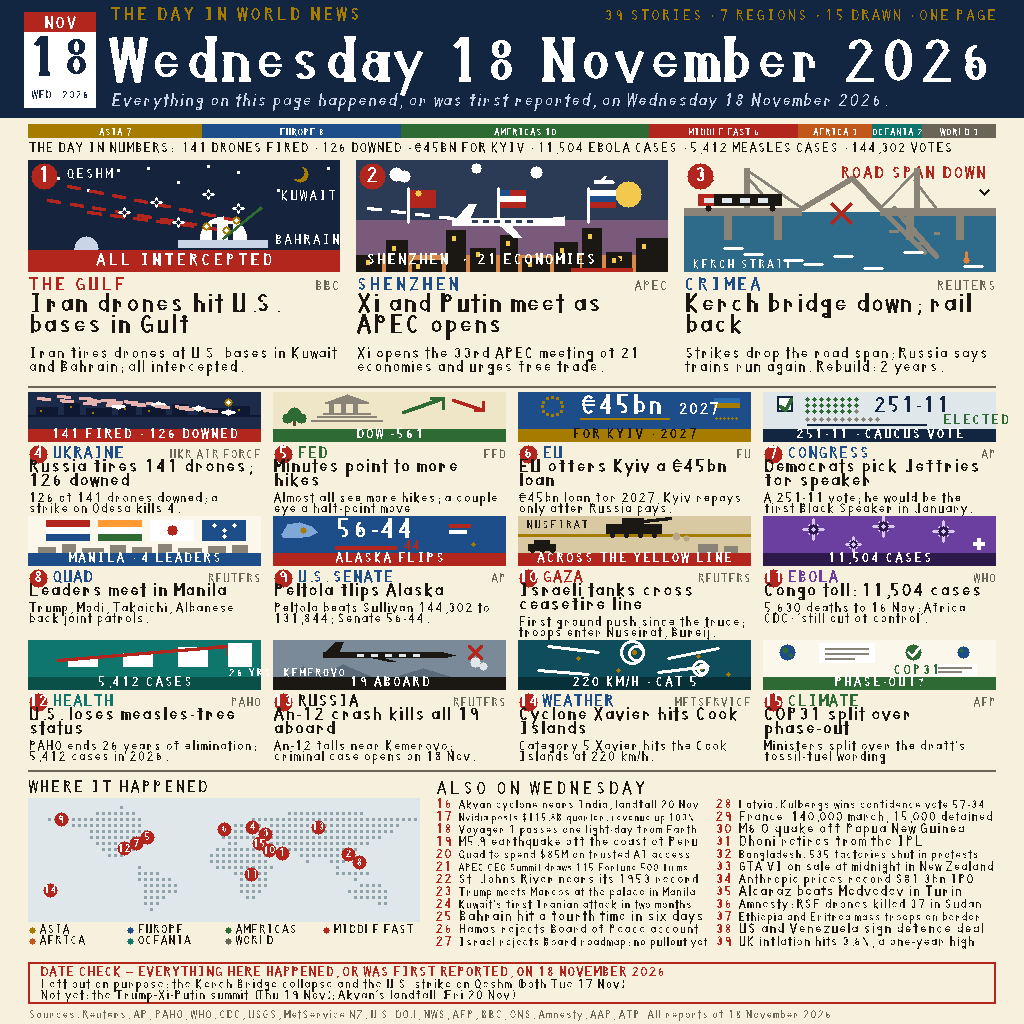
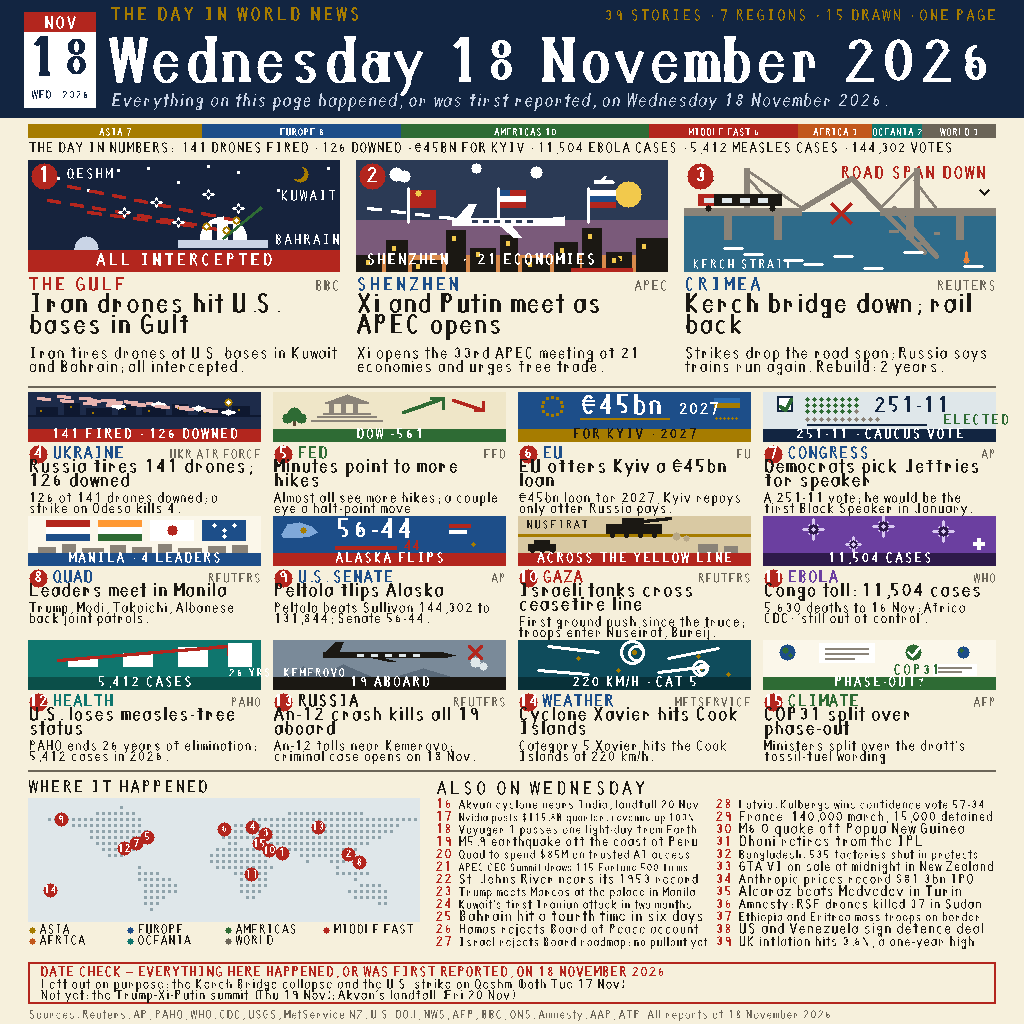
Round 7: font optical corrections — overshoot, stroke modulation, smoother curves, better y/g descenders

diff --git a/main.ts b/main.ts
@@ -193,7 +193,7 @@ const rect = (x0: number, y0: number, x1: number, y1: number): Ctr => [
   [x1, y1],
   [x0, y1],
 ];
-const ell = (cx: number, cy: number, rx: number, ry: number, n = 24): Ctr => {
+const ell = (cx: number, cy: number, rx: number, ry: number, n = 36): Ctr => {
   const p: Ctr = [];
   for (let i = 0; i < n; i++) {
     const a = (i / n) * Math.PI * 2;
@@ -202,7 +202,7 @@ const ell = (cx: number, cy: number, rx: number, ry: number, n = 24): Ctr => {
   return p;
 };
 // Thick arc band, angles in degrees (0 = east, 90 = north), a1 > a0.
-const arcBand = (cx: number, cy: number, rx: number, ry: number, a0: number, a1: number, th: number, n = 16): Ctr => {
+const arcBand = (cx: number, cy: number, rx: number, ry: number, a0: number, a1: number, th: number, n = 24): Ctr => {
   const p: Ctr = [];
   for (let i = 0; i <= n; i++) {
     const a = ((a0 + ((a1 - a0) * i) / n) * Math.PI) / 180;
@@ -238,7 +238,7 @@ const stem = (x: number, y0: number, y1: number, w: number, top = true, bot = tr
   return [[rect(x, y0, x + w, y1)]];
 };
 // Quadratic bezier sampler (for serif brackets).
-const quad = (p0: [number, number], p1: [number, number], p2: [number, number], n = 4): Ctr => {
+const quad = (p0: [number, number], p1: [number, number], p2: [number, number], n = 8): Ctr => {
   const pts: Ctr = [];
   for (let i = 0; i <= n; i++) {
     const t = i / n;
@@ -284,7 +284,7 @@ const bowlC = (cx: number, cy: number, rx: number, ry: number, thSide: number, t
 ];
 // Contrast arc band (serif face): thickness varies from thSide at the
 // horizontal extremes to thTop at the vertical extremes (vertical stress).
-const arcC = (cx: number, cy: number, rx: number, ry: number, a0: number, a1: number, thSide: number, thTop: number, n = 16): Ctr => {
+const arcC = (cx: number, cy: number, rx: number, ry: number, a0: number, a1: number, thSide: number, thTop: number, n = 24): Ctr => {
   const p: Ctr = [];
   for (let i = 0; i <= n; i++) {
     const a = ((a0 + ((a1 - a0) * i) / n) * Math.PI) / 180;
@@ -311,6 +311,28 @@ const diagT = (x0: number, y0: number, x1: number, y1: number, w0: number, w1: n
     [x0 - nx * (w0 / 2), y0 - ny * (w0 / 2)],
   ];
 };
+// Curved tapered stroke (r7): a closed outline along a quadratic bezier
+// centerline, width w0 at the start tapering to w1 at the end. Used for
+// the 'y' descender tail, which a straight diagonal makes look stiff.
+const curveStroke = (p0: [number, number], p1: [number, number], p2: [number, number], w0: number, w1: number, n = 10): Ctr => {
+  const left: Ctr = [];
+  const right: Ctr = [];
+  for (let i = 0; i <= n; i++) {
+    const t = i / n;
+    const u = 1 - t;
+    const x = u * u * p0[0] + 2 * u * t * p1[0] + t * t * p2[0];
+    const y = u * u * p0[1] + 2 * u * t * p1[1] + t * t * p2[1];
+    const dx = 2 * u * (p1[0] - p0[0]) + 2 * t * (p2[0] - p1[0]);
+    const dy = 2 * u * (p1[1] - p0[1]) + 2 * t * (p2[1] - p1[1]);
+    const len = Math.hypot(dx, dy) || 1;
+    const nx = -dy / len;
+    const ny = dx / len;
+    const w = (w0 + (w1 - w0) * t) / 2;
+    left.push([x + nx * w, y + ny * w]);
+    right.push([x - nx * w, y - ny * w]);
+  }
+  return [...left, ...right.reverse()];
+};
 const FONT: Record<string, OGlyph> = {
   "0": [60, [bowl(28, 35, 20, 32, 7)]],
   "1": [60, [...stem(26, 0, 70, 11), [diag(18, 56, 30, 70, 7)]]],
@@ -323,12 +345,12 @@ const FONT: Record<string, OGlyph> = {
   "8": [60, [bowl(28, 52, 14, 14, 7), bowl(28, 20, 15, 16, 7)]],
   "9": [60, [bowl(28, 48, 15, 18, 7), ...stem(38, 0, 50, 9, false, false)]],
   A: [60, [[diag(6, 0, 28, 70, 9)], [diag(28, 70, 50, 0, 9)], [rect(14, 23, 42, 30)]]],
-  B: [60, [...stem(8, 0, 70, 11), bowl(29, 53, 14, 14, 7), bowl(29, 19, 15, 15, 7)]],
-  C: [60, [[arcBand(28, 35, 20, 33, 45, 315, 7)]]],
-  D: [60, [...stem(8, 0, 70, 11), [ell(30, 35, 20, 33), ell(30, 35, 14, 27)]]],
+  B: [60, [...stem(8, 0, 70, 11), bowlC(29, 54, 15, 17.5, 8, 6), bowlC(29, 18, 15, 19.5, 8, 6)]],
+  C: [60, [[arcC(28, 35, 21, 36.5, 45, 315, 8, 6)]]],
+  D: [60, [...stem(8, 0, 70, 11), [ell(30, 35, 21, 36.5), ell(30, 35, 13, 30.5)]]],
   E: [60, [...stem(8, 0, 70, 11), [rect(8, 63, 48, 70)], [rect(8, 31, 38, 38)], [rect(8, 0, 48, 7)]]],
   F: [60, [...stem(8, 0, 70, 11), [rect(8, 63, 48, 70)], [rect(8, 31, 38, 38)]]],
-  G: [60, [[arcBand(28, 35, 20, 33, 45, 315, 7)], [rect(28, 27, 48, 34)], ...stem(43, 4, 30, 7, false, false)]],
+  G: [60, [[arcC(28, 35, 21, 36.5, 45, 315, 8, 6)], [rect(28, 27, 48, 34)], ...stem(43, 4, 30, 7, false, false)]],
   H: [60, [...stem(8, 0, 70, 11), ...stem(39, 0, 70, 11), [rect(8, 31, 49, 38)]]],
   I: [60, [[rect(24, 0, 35, 70)], [rect(14, 63, 38, 70)], [rect(14, 0, 38, 7)]]],
   J: [60, [...stem(34, 0, 70, 11, true, false), [arcBand(30, 12, 16, 12, 180, 270, 7)]]],
@@ -336,43 +358,43 @@ const FONT: Record<string, OGlyph> = {
   L: [60, [...stem(8, 0, 70, 11), [rect(8, 0, 48, 7)]]],
   M: [60, [...stem(6, 0, 70, 11), [diag(6, 70, 28, 28, 8)], [diag(28, 28, 50, 70, 8)], ...stem(47, 0, 70, 11)]],
   N: [60, [...stem(8, 0, 70, 11), [diag(8, 70, 48, 0, 8)], ...stem(39, 0, 70, 11)]],
-  O: [60, [bowl(28, 35, 21, 33, 7)]],
-  P: [60, [...stem(8, 0, 70, 11), bowl(29, 53, 14, 14, 7)]],
-  Q: [60, [bowl(28, 35, 21, 33, 7), [diag(38, 14, 52, -4, 6)]]],
-  R: [60, [...stem(8, 0, 70, 11), bowl(29, 53, 14, 14, 7), [diag(28, 36, 48, 0, 7)]]],
-  S: [60, [[arcBand(28, 52, 16, 15, 25, 270, 7)], [arcBand(28, 20, 16, 15, 200, 450, 7)]]],
+  O: [60, [bowlC(28, 35, 22, 36.5, 8, 6)]],
+  P: [60, [...stem(8, 0, 70, 11), bowlC(29, 54, 15, 17.5, 8, 6)]],
+  Q: [60, [bowlC(28, 35, 22, 36.5, 8, 6), [diag(38, 14, 52, -4, 6)]]],
+  R: [60, [...stem(8, 0, 70, 11), bowlC(29, 54, 15, 17.5, 8, 6), [diag(28, 36, 48, 0, 7)]]],
+  S: [60, [[arcC(28, 53, 17, 18.5, 25, 270, 8, 6)], [arcC(28, 18, 17, 19.5, 200, 450, 8, 6)]]],
   T: [60, [[rect(6, 63, 50, 70)], ...stem(24, 0, 70, 11)]],
-  U: [60, [...stem(8, 0, 70, 11), ...stem(39, 0, 70, 11), [arcBand(28, 12, 15, 12, 180, 360, 7)]]],
+  U: [60, [...stem(8, 0, 70, 11), ...stem(39, 0, 70, 11), [arcC(28, 12, 15, 13.5, 180, 360, 8, 6)]]],
   V: [60, [[diag(8, 70, 28, 0, 9)], [diag(28, 0, 48, 70, 9)]]],
   W: [60, [[diag(4, 70, 14, 0, 7)], [diag(14, 0, 28, 70, 7)], [diag(28, 70, 42, 0, 7)], [diag(42, 0, 52, 70, 7)]]],
   X: [60, [[diag(10, 70, 46, 0, 8)], [diag(46, 70, 10, 0, 8)]]],
   Y: [60, [[diag(8, 70, 28, 36, 9)], [diag(48, 70, 28, 36, 9)], ...stem(24, 0, 38, 11)]],
   Z: [60, [[rect(8, 63, 48, 70)], [diag(48, 70, 8, 0, 6)], [rect(8, 0, 48, 7)]]],
-  a: [54, [bowl(26, 27, 17, 20, 6), ...stem(37, 8, 48, 10)]],
-  b: [54, [...stem(10, 0, 72, 10), bowl(27, 27, 17, 20, 6)]],
-  c: [54, [[arcBand(27, 27, 17, 21, 50, 310, 6)]]],
-  d: [54, [bowl(27, 27, 17, 20, 6), ...stem(37, 0, 72, 10)]],
-  e: [54, [[arcBand(27, 28, 17, 20, 25, 335, 6)], [rect(10, 24, 44, 28)]]],
+  a: [54, [bowlC(26, 24, 19, 25.5, 7, 5), ...stem(37, 8, 48, 10)]],
+  b: [54, [...stem(10, 0, 72, 10), bowlC(27, 24, 19, 25.5, 7, 5)]],
+  c: [54, [[arcC(27, 24, 19, 25.5, 50, 310, 7, 5)]]],
+  d: [54, [bowlC(27, 24, 19, 25.5, 7, 5), ...stem(37, 0, 72, 10)]],
+  e: [54, [[arcC(27, 24, 19, 25.5, 25, 335, 7, 5)], [rect(10, 24, 44, 28)]]],
   f: [48, [...stem(20, 0, 66, 10, false, true), [arcBand(24, 58, 9, 9, 0, 180, 7)], [rect(8, 43, 38, 50)]]],
-  g: [54, [bowl(26, 34, 15, 14, 7), bowl(26, -10, 13, 9, 7), ...stem(34, -19, 48, 10, true, false)]],
-  h: [54, [...stem(10, 0, 72, 10), [arcBand(23, 34, 14, 12, 0, 180, 7)], ...stem(36, 0, 34, 10, false, true)]],
+  g: [54, [bowlC(26, 34.5, 16, 15, 7, 5), bowlC(26, -9, 13, 12, 7, 5), ...stem(34, -21, 48, 10, true, false)]],
+  h: [54, [...stem(10, 0, 72, 10), [arcC(23, 34, 15, 15.5, 0, 180, 7, 5)], ...stem(36, 0, 34, 10, false, true)]],
   i: [28, [...stem(10, 0, 48, 10, false, true), [rect(10, 60, 18, 68)]]],
   j: [30, [...stem(11, -20, 48, 10, false, false), [arcBand(15, -10, 9, 9, 180, 270, 6)], [rect(11, 60, 19, 68)]]],
   k: [54, [...stem(10, 0, 72, 10), [diag(18, 26, 42, 48, 7)], [diag(22, 20, 42, 0, 7)]]],
   l: [28, [...stem(10, 0, 72, 10)]],
-  m: [58, [...stem(6, 0, 48, 10), [arcBand(20, 34, 13, 12, 0, 180, 7)], ...stem(26, 0, 34, 10, false, true), [arcBand(40, 34, 13, 12, 0, 180, 7)], ...stem(46, 0, 34, 10, false, true)]],
-  n: [54, [...stem(10, 0, 48, 10), [arcBand(26, 34, 17, 12, 0, 180, 7)], ...stem(36, 0, 34, 10, false, true)]],
-  o: [54, [bowl(27, 27, 17, 21, 6)]],
-  p: [54, [...stem(10, -24, 48, 10, false, false), bowl(27, 27, 17, 20, 6)]],
-  q: [54, [bowl(27, 27, 17, 20, 6), ...stem(37, -24, 48, 10, false, false)]],
+  m: [58, [...stem(6, 0, 48, 10), [arcC(20, 34, 14, 15, 0, 180, 7, 5)], ...stem(26, 0, 34, 10, false, true), [arcC(40, 34, 14, 15, 0, 180, 7, 5)], ...stem(46, 0, 34, 10, false, true)]],
+  n: [54, [...stem(10, 0, 48, 10), [arcC(26, 34, 18, 15.5, 0, 180, 7, 5)], ...stem(36, 0, 34, 10, false, true)]],
+  o: [54, [bowlC(27, 24, 19, 25.5, 7, 5)]],
+  p: [54, [...stem(10, -24, 48, 10, false, false), bowlC(27, 24, 19, 25.5, 7, 5)]],
+  q: [54, [bowlC(27, 24, 19, 25.5, 7, 5), ...stem(37, -24, 48, 10, false, false)]],
   r: [54, [...stem(10, 0, 48, 10), [arcBand(24, 28, 13, 15, -30, 100, 7)]]],
-  s: [54, [[arcBand(27, 38, 14, 11, 25, 270, 7)], [arcBand(27, 16, 14, 11, 200, 450, 7)]]],
+  s: [54, [[arcC(27, 38, 15, 11.5, 25, 270, 7, 5)], [arcC(27, 12, 15, 13.5, 200, 450, 7, 5)]]],
   t: [36, [...stem(14, -2, 68, 10, false, true), [rect(4, 43, 32, 50)]]],
-  u: [54, [...stem(10, 0, 48, 10), ...stem(36, 0, 48, 10), [arcBand(27, 12, 13, 12, 180, 360, 7)]]],
+  u: [54, [...stem(10, 0, 48, 10), ...stem(36, 0, 48, 10), [arcC(27, 12, 14, 13.5, 180, 360, 7, 5)]]],
   v: [54, [[diag(8, 48, 26, 0, 8)], [diag(26, 0, 44, 48, 8)]]],
   w: [50, [[diag(6, 48, 17, 0, 7)], [diag(17, 0, 28, 48, 7)], [diag(28, 48, 39, 0, 7)], [diag(39, 0, 48, 48, 7)]]],
   x: [54, [[diag(10, 48, 42, 0, 7)], [diag(42, 48, 10, 0, 7)]]],
-  y: [54, [[diag(8, 48, 26, 6, 8)], [diag(26, 6, 44, 48, 8)], [diag(26, 6, 16, -20, 7)]]],
+  y: [54, [[diag(8, 48, 26, 6, 8)], [diag(26, 6, 44, 48, 8)], [curveStroke([26, 6], [27, -8], [15, -20], 8, 4)]]],
   z: [54, [[rect(8, 42, 46, 49)], [diag(46, 48, 8, 0, 6)], [rect(8, 0, 46, 7)]]],
   " ": [28, []],
   ".": [28, [[rect(23, 0, 29, 6)]]],
@@ -409,17 +431,17 @@ const SERIF: Record<string, OGlyph> = {
   "8": [60, [bowlC(28, 52, 14, 14, 8, 4), bowlC(28, 20, 15, 16, 8, 4)]],
   W: [60, [[diagT(4, 70, 14, 0, 10, 6)], [diagT(14, 0, 28, 70, 6, 10)], [diagT(28, 70, 42, 0, 10, 6)], [diagT(42, 0, 52, 70, 6, 10)]]],
   N: [60, [stemS(8, 0, 70, 11), [diagT(10, 68, 46, 2, 7, 5)], stemS(39, 0, 70, 11)]],
-  a: [54, [bowlC(26, 41, 12, 8, 5, 3), bowlC(26, 20, 17, 17, 8, 4), stemS(37, 0, 48, 10)]],
-  b: [54, [stemS(10, 0, 72, 10), bowlC(27, 27, 17, 20, 8, 4)]],
-  d: [54, [bowlC(27, 27, 17, 20, 8, 4), stemS(37, 0, 72, 10)]],
-  e: [54, [[arcC(27, 28, 17, 20, 25, 335, 6, 4)], [rect(10, 24, 44, 28)]]],
-  m: [58, [stemS(6, 0, 48, 10), [arcC(20, 34, 13, 12, 0, 180, 7, 4)], stemS(26, 0, 34, 10, false, true), [arcC(40, 34, 13, 12, 0, 180, 7, 4)], stemS(46, 0, 34, 10, false, true)]],
-  n: [54, [stemS(10, 0, 48, 10), [arcC(26, 34, 17, 12, 0, 180, 7, 4)], stemS(36, 0, 34, 10, false, true)]],
-  o: [54, [bowlC(27, 27, 17, 21, 8, 4)]],
-  r: [54, [stemS(10, 0, 48, 10), [arcC(23, 34, 13, 12, 0, 120, 6, 3)], [rect(32, 22, 38, 34)]]],
-  s: [54, [[arcC(27, 38, 14, 11, 25, 270, 7, 4)], [arcC(27, 16, 14, 11, 200, 450, 7, 4)]]],
+  a: [54, [bowlC(26, 41, 12, 8, 5, 3), bowlC(26, 18, 18, 19.5, 9, 4), stemS(37, 0, 48, 10)]],
+  b: [54, [stemS(10, 0, 72, 10), bowlC(27, 24, 19, 25.5, 9, 4)]],
+  d: [54, [bowlC(27, 24, 19, 25.5, 9, 4), stemS(37, 0, 72, 10)]],
+  e: [54, [[arcC(27, 24, 19, 25.5, 25, 335, 7, 4)], [rect(10, 24, 44, 28)]]],
+  m: [58, [stemS(6, 0, 48, 10), [arcC(20, 34, 14, 15, 0, 180, 7, 4)], stemS(26, 0, 34, 10, false, true), [arcC(40, 34, 14, 15, 0, 180, 7, 4)], stemS(46, 0, 34, 10, false, true)]],
+  n: [54, [stemS(10, 0, 48, 10), [arcC(26, 34, 18, 15.5, 0, 180, 7, 4)], stemS(36, 0, 34, 10, false, true)]],
+  o: [54, [bowlC(27, 24, 19, 25.5, 9, 4)]],
+  r: [54, [stemS(10, 0, 48, 10), [arcC(23, 34, 14, 15, 0, 120, 6, 3)], [rect(32, 22, 38, 34)]]],
+  s: [54, [[arcC(27, 38, 15, 11.5, 25, 270, 7, 4)], [arcC(27, 12, 15, 13.5, 200, 450, 7, 4)]]],
   v: [54, [[diagT(8, 48, 26, 0, 10, 5)], [diagT(44, 48, 26, 0, 6, 5)]]],
-  y: [54, [[diagT(8, 48, 26, 8, 10, 6)], [diagT(44, 48, 26, 8, 6, 6)], [diagT(26, 8, 16, -20, 6, 5)]]],
+  y: [54, [[diagT(8, 48, 26, 8, 10, 6)], [diagT(44, 48, 26, 8, 6, 6)], [curveStroke([26, 8], [27, -6], [15, -20], 6, 4)]]],
   " ": [28, []],
 };
 
